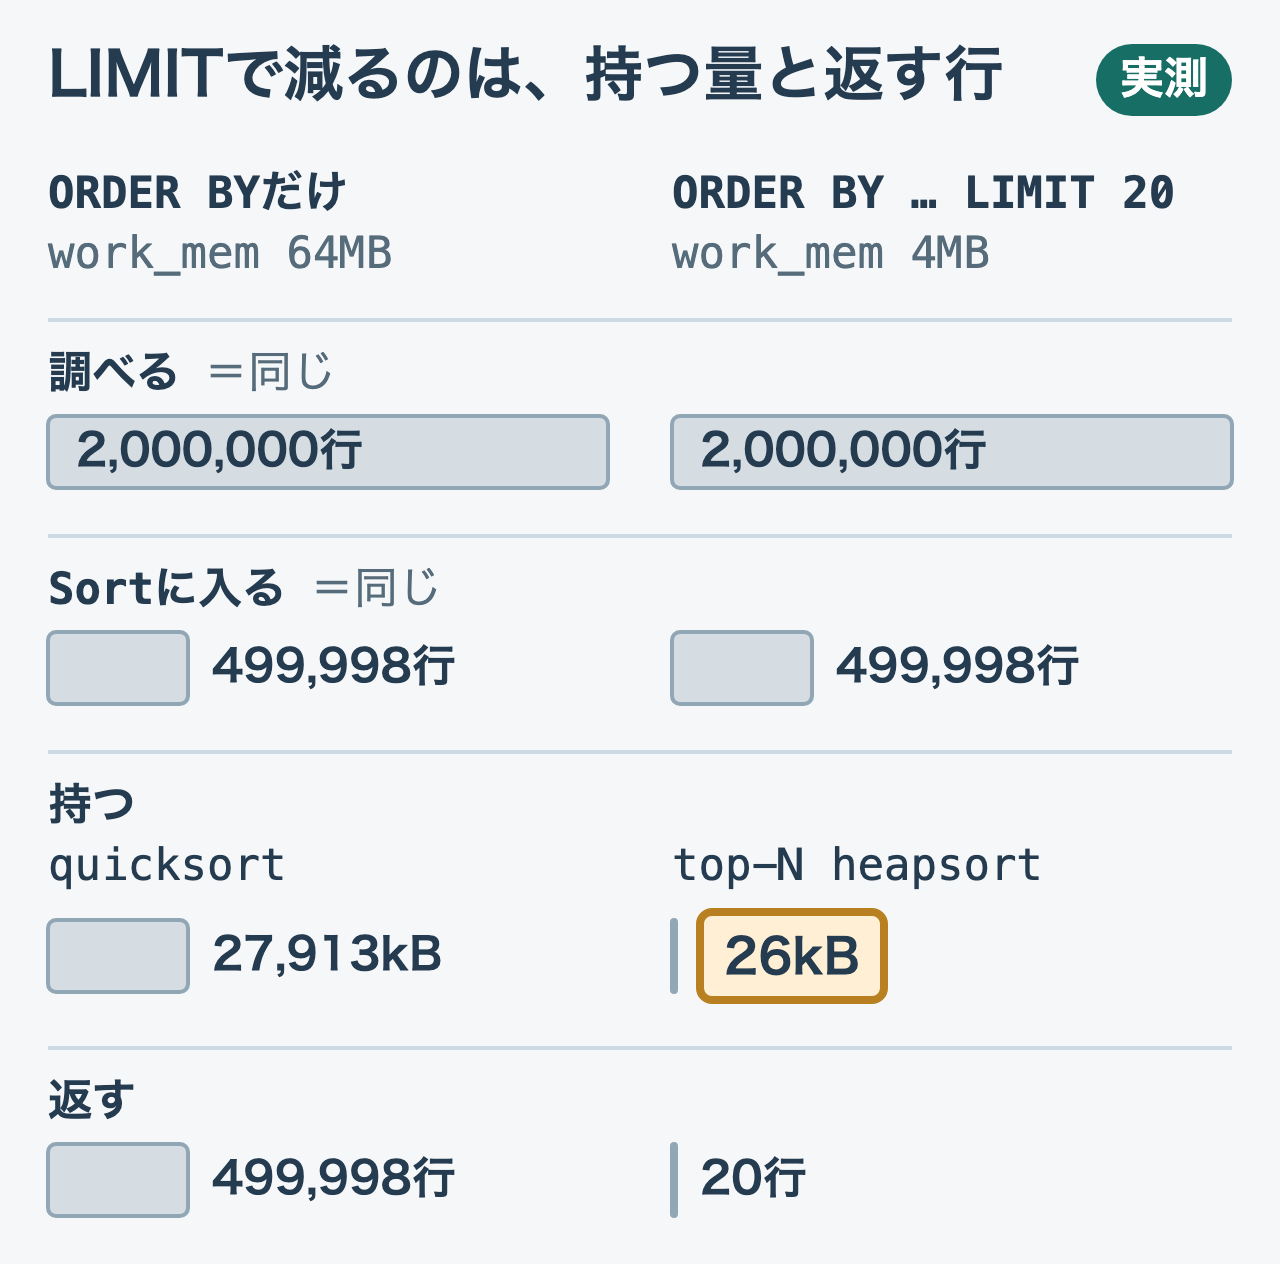
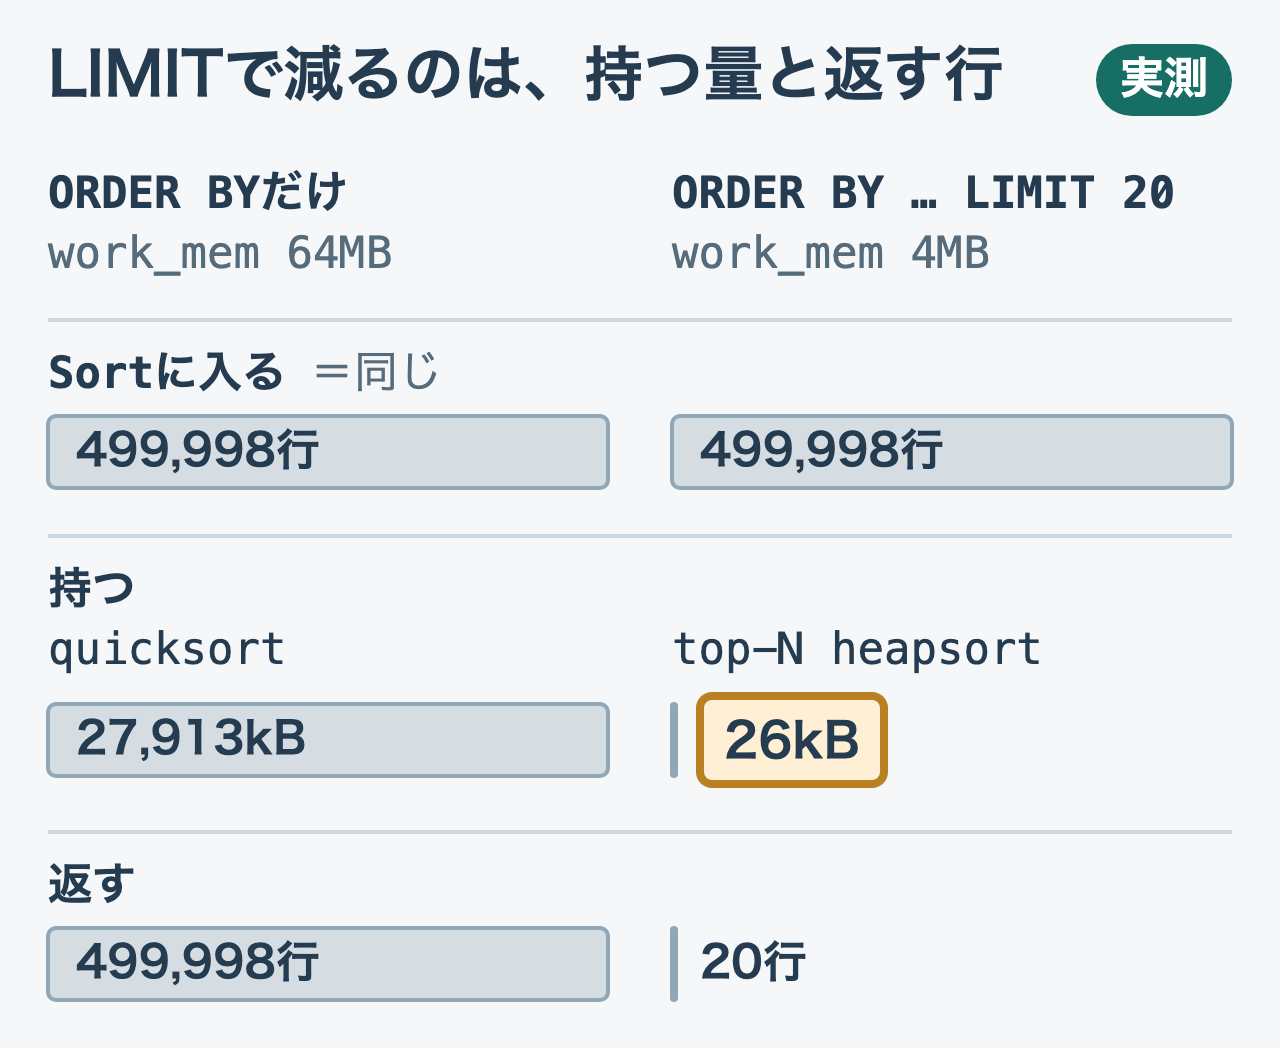
docs(query-journey): 第8章の比較の図から「調べる」の行を外し、Sort に入る・持つ・返すの3行にする
第8章72行目は、Sortに入った499,998行を「調べた行数」と呼んでいる。Seq Scanの2,000,000行を「調べる」の行に描くと、この言い方と食い違う。また第8章はSeq Scanの出力を載せていないので、右の列の2,000,000は実測として示せない。

そこで「調べる」の行を外し、「Sortに入る」「持つ」「返す」の3行にした。帯は同じ行の左右で同じ尺度のまま、各行の大きいほうを列いっぱいに描き直し、高さを632から524にした。図の直前の文・代替テキスト・キャプションと catalog.json の説明も、三つの数に合わせて直した。

Changed region(s): [[0.0312, 0.1221, 0.9688, 0.7939], [0.0312, 0.0305, 0.9688, 0.2748], [0.0312, 0.8244, 0.625, 0.9771]]

diff --git a/books/postgresql-query-journey/08-top-n-heap.md b/books/postgresql-query-journey/08-top-n-heap.md
@@ -71,10 +71,10 @@ Sort Method: top-N heapsort  Memory: 26kB
 
 ソートへ入ったのは499,998行、上で返すのは20行でした。26kBは、20行の候補を保つのに見合う小ささです。調べた行数は499,998行のままなので、この値だけを見て「20行しか調べなかった」とは読めません。
 
-図で、第7章の`ORDER BY`だけの実行と、四つの数を並べて比べてください。
+図で、第7章の`ORDER BY`だけの実行と、三つの数を並べて比べてください。
 
-![ORDER BYだけとLIMIT 20の比較。調べる200万行とSortに入る499,998行は同じで、持つ量は27,913kBと26kB、返す行は499,998行と20行に変わる](/images/postgresql-query-journey/08-sort-vs-topn.png)
-*調べる行とSortに入る行は同じで、持つ量と返す行だけが減ります（左は第7章、右はこの章の実測。work_memの設定は64MBと4MBで違います）。*
+![ORDER BYだけとLIMIT 20の比較。Sortに入る499,998行は同じで、持つ量は27,913kBと26kB、返す行は499,998行と20行に変わる](/images/postgresql-query-journey/08-sort-vs-topn.png)
+*Sortに入る行は同じで、持つ量と返す行だけが減ります（左は第7章、右はこの章の実測。work_memの設定は64MBと4MBで違います）。*
 
 ## 最初から順序が分かるなら？
 
